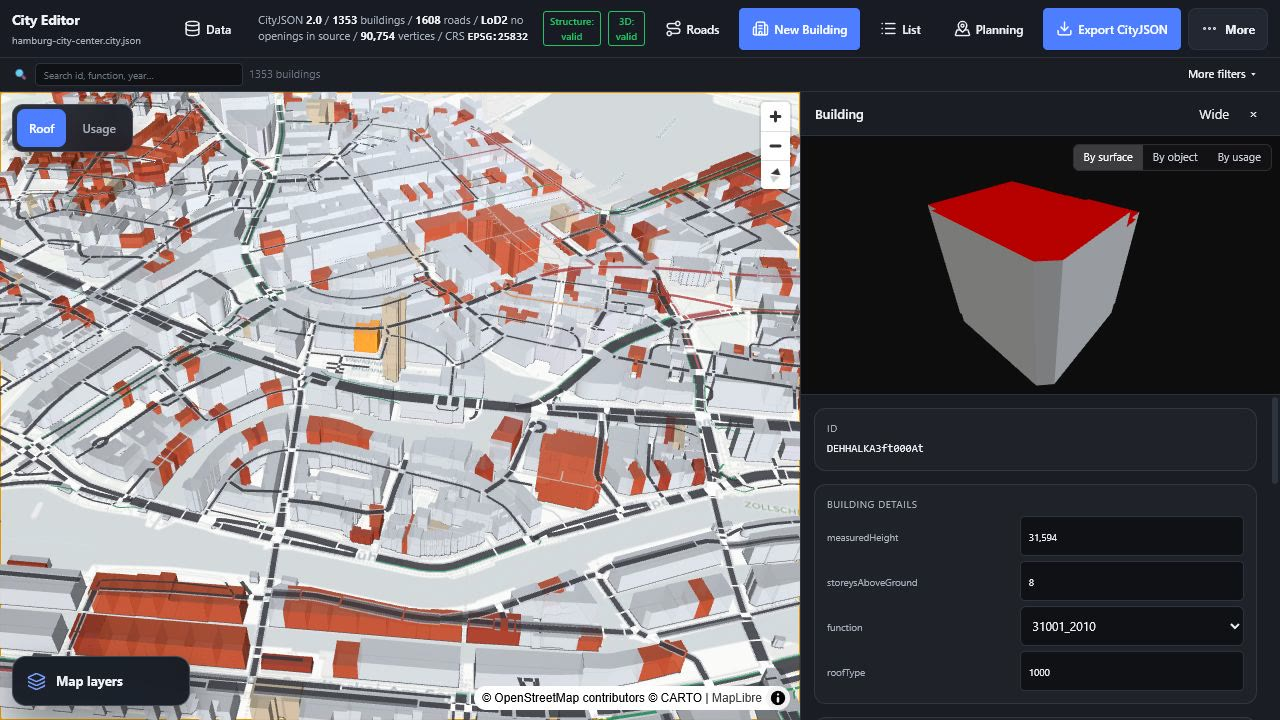
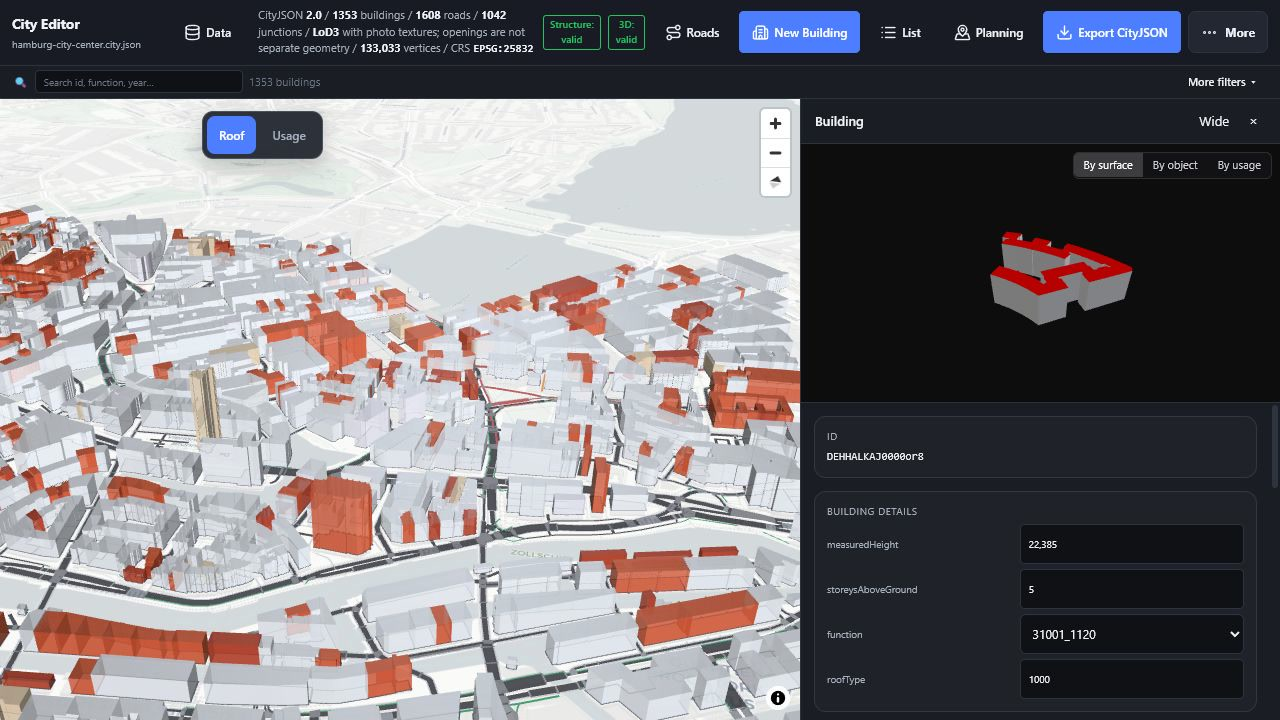
Refresh README for current Hamburg editor

diff --git a/README.md b/README.md
@@ -1,10 +1,12 @@
 # City Editor
 
-City Editor is a touch-friendly map for editing buildings and osm2streets-quality roads in one CityJSON file. The Hamburg demo opens automatically with 1,353 buildings and 1,608 editable CityJSON roads—no server or OSM conversion is needed at startup.
+City Editor is a touch-first browser editor for inspecting and editing buildings and transportation surfaces in one CityJSON working document. It keeps the map, source geometry, attributes, validation, and export in the same workflow.
 
-![Hamburg buildings in City Editor](assets/readme/city-overview.jpg)
+The built-in Hamburg city-center demo opens automatically with **1,353 buildings**, **1,608 roads**, and **1,042 junctions**. Its wider LoD2 context contains **68 photo-textured LoD3 buildings** at their real coordinates. The road and junction polygons are precomputed with osm2streets, so the demo does not need a backend, Rust, Overpass, or startup OSM conversion. Close views optionally stream Hamburg's official 3D street trees.
 
-## Start the editor
+![Centered Hamburg CityJSON overview with buildings and transportation geometry](assets/readme/city-overview.jpg)
+
+## Run locally
 
 Install [Node.js](https://nodejs.org/) 20 or newer, then run:
 
@@ -13,11 +15,35 @@ npm ci
 npm run dev
 ```
 
-Open the local address printed in the terminal. No backend, Rust installation, or data download is needed for the built-in demo.
+Open the local address printed in the terminal. The committed Hamburg demo and the browser build are enough for the default workflow.
 
-## Add or edit a building
+## Find your way around
 
-Choose **New Building**. You can place one of the included, officially textured Hamburg LoD3 buildings, or choose **Draw a custom building** and tap its corners on the map.
+- The top bar reports the file name, CityJSON version, building, road, and junction counts, highest loaded LoD, texture/opening status, vertex count, CRS, and both validation states.
+- The search bar filters buildings by ID, function, or year. **More filters** adds type, roof, year, height, and storey filters; **List** provides sortable results and map selection.
+- **Roof** and **Usage** recolor the buildings without changing their source attributes.
+- **Map layers** in the upper-left controls the basemap, satellite opacity, road-overlay opacity, and source-detail status.
+- **Planning** loads the supported Hamburg planning overlay for the current, safely bounded view.
+
+## Inspect and edit buildings
+
+1. Tap a building to open its inspector and highest-detail 3D preview.
+2. Switch the preview between **By surface**, **By object**, and **By usage** to inspect its structure.
+3. Edit common source attributes such as height, storeys, function, and roof type under **Building details**.
+4. Choose **Start editing position** to move the building while keeping its ground aligned with nearby terrain.
+5. Use **Revert this building** if you want to restore the loaded attributes before export.
+
+Imported source geometry remains read-only for topology-changing tools. Choose **Make editable (replace with parametric)** only when you intentionally want to replace it with an editable footprint, roof, openings, overhangs, or subdivisions. Ordinary attribute edits do not require that conversion.
+
+![Building attributes and highest-detail preview](assets/readme/building-editor.jpg)
+
+### Add a building
+
+Choose **New Building** to open the current building chooser:
+
+- Place the included **Round courtyard** or **Industrial hall** LoD3 asset, then tap the map to position it.
+- Choose **Draw a custom building**, tap at least three corners, and choose **Use outline**.
+- Set the height, roof, windows, and internal parts in the preview before choosing **Create Building**.
 
 For a custom building, **Separate editable parts** is optional:
 
@@ -25,37 +51,43 @@ For a custom building, **Separate editable parts** is optional:
 - **Make floors independent** creates separately editable storeys.
 - **Make side-by-side wings** creates separately editable building sections.
 
-To edit an existing building:
+The map uses three clear, non-overlapping stages: LoD0 footprints for the overview, source LoD2 in the middle range, and textured LoD3 only when you are very close. The Hamburg LoD3 subset retains 68 JPG texture atlases, UV coordinates, and detailed installations. Windows can therefore be visible in the facade photographs even when the source does not encode separate semantic Window or Door surfaces. The buildings come from Hamburg's [official LoD3.0 dataset](https://suche.transparenz.hamburg.de/dataset/3d-gebaeudemodell-lod3-0-hh-hamburg5), and close views use its official [3D street-tree register](https://metaver.de/trefferanzeige?docuuid=24513F73-D928-450C-A334-E30037945729), published by Freie und Hansestadt Hamburg, LGV under Datenlizenz Deutschland – Namensnennung 2.0.
 
-1. Tap it on the map to open its attributes.
-2. Change its height, storeys, function, or roof type in **Building details**.
-3. Choose **Start editing position** to move it while keeping its ground aligned with nearby terrain.
-4. Choose **Make editable** only when you intentionally want to replace imported geometry with a reshaped parametric building.
-5. Export CityJSON when you are ready to save or compare the result.
+## Edit roads and junctions
 
-The default map now includes a surveyed district of **24 textured LoD3 buildings** at their real Hamburg coordinates, surrounded by the wider LoD2 city context. Detail blends continuously from overview footprints to blocks and then to the source geometry across 3.5 zoom levels; it does not jump after one wheel step. The toolbar says LoD3 because LoD3 is genuinely loaded. Texture-visible windows are retained, while the app does not invent semantic Window or Door surfaces that the source omits. The included placement assets come from the same [official Hamburg LoD3.0 source](https://suche.transparenz.hamburg.de/dataset/3d-gebaeudemodell-lod3-0-hh-hamburg5).
+1. Choose **Roads**. The panel reports the loaded CityJSON roads and junctions while keeping the map available for selection.
+2. Tap a road and choose **Edit road**. Its exact osm2streets lane polygons are already stored in CityJSON.
+3. Use **Road on the map** to select a coloured band and change its type, surface, width, direction, order, or presence with touch-sized controls.
+4. Drag a yellow anchor to move a bend, tap a white `+` to add one, or drag an end onto a teal target to confirm a connection.
+5. Choose **Smooth** or **Straight** for the road curve, and split a road when its lane layout changes along the section.
+6. Switch between **Map** and **Satellite** in the road panel. Satellite imagery and the CityJSON road overlay have separate opacity controls.
 
-![Building details and highest-detail preview](assets/readme/building-editor.jpg)
+Lane dividers and source-directed arrows are rendered from the saved road bands. Type, direction, material, access, and speed edits show **Exact source polygons protected** and leave the original boundaries and global vertex array unchanged. Moving a handle, changing width or band order, adding or removing a band, splitting a section, or changing the curve mode rebuilds only that road around its preserved source centreline.
 
-## Edit a road
+The save button reflects the pending operation: **Save exact attributes**, **Save road changes**, or **Save new road**. **Discard** leaves the saved CityJSON unchanged.
 
-1. Choose **Roads**, then tap a road on the map.
-2. Choose **Edit road**. Its exact osm2streets polygons are already stored in CityJSON.
-3. Use the large **Road on the map** workspace along the bottom. Tap a coloured band and change its type, surface, width, direction, order, or add/remove bands in the same place.
-4. Drag yellow handles to bend the road, tap white `+` handles to add a bend, and drag an end onto a teal dot to confirm a connection.
-5. Switch between **Map** and **Satellite** inside the road sheet. Satellite and road opacity have separate sliders.
-6. Choose **Save** or **Discard**.
+![Exact CityJSON road editing with on-map band controls](assets/readme/road-editor.jpg)
 
-The road's shape is controlled directly on the map; there is no abstract curve-strength slider. Attribute-only changes preserve the exact source vertices. Moving a handle, changing width/order, splitting, or changing between smooth and straight deliberately rebuilds only that road and is clearly labelled before save.
+## Load, validate, and save data
 
-![Touch-friendly exact road editing](assets/readme/road-editor.jpg)
+Choose **Data** to drop or browse for a monolithic CityJSON file or a `.jsonl`/CityJSONSeq file. The same panel can reload the hosted Hamburg demo, open the sample cube, or connect to the optional local Hamburg CityJSONSeq catalog. The catalog streams strict tiles as the camera moves instead of loading a whole-city file into the browser at once.
 
-## Save, compare, and continue later
+Secondary data tools live under **More**:
 
-Edits stay local until you export. **Export CityJSON** downloads one complete snapshot containing both buildings and roads. Reopen it later to compare or continue editing.
+- **Save local** stores the current working document in browser IndexedDB.
+- **Merge file** adds another CityJSON document to the current one.
+- **Import IFC** places an IFC building model into the CityJSON scene.
+- **Export glTF** downloads the rendered geometry as binary glTF.
+- **Undo** and **Redo** cover building and road edits.
 
-To draw a custom building, choose **New Building → Draw a custom building**, tap at least three corners, choose **Use outline**, review the preview, then choose **Create Building**. This works with touch and does not require a double-click.
+**Structure** checks CityJSON integrity. **Check 3D** validates edited geometry; geometry-changing operations mark it for another check before export.
 
-On a phone, the toolbar keeps only **Data**, **Roads**, **New Building**, and **More** visible. Building list, planning, export, validation, and developer actions remain in the large **More** menu.
+Choose **Export CityJSON** to download one complete snapshot containing the current buildings, roads, junctions, attributes, and editable road layouts. Load that snapshot through **Data** later to compare it or continue editing. Nothing is written back to a source file or catalog unless you explicitly use its save action.
 
-Architecture, formats, data provenance, contributor commands, and the honest remaining roadmap are in [PROJECT.md](PROJECT.md).
+## Touch and small screens
+
+Drawing and editing use pointer events and touch-sized controls. Custom buildings use **Use outline** rather than a double-click, and road editing always exposes an explicit save or discard action.
+
+On a phone, the primary toolbar keeps **Data**, **Roads**, **New Building**, and **More** visible. Building list, planning, export, validation, and secondary actions remain available in the touch-sized **More** menu.
+
+Architecture, formats, data provenance, contributor commands, and the remaining roadmap are documented in [PROJECT.md](PROJECT.md).